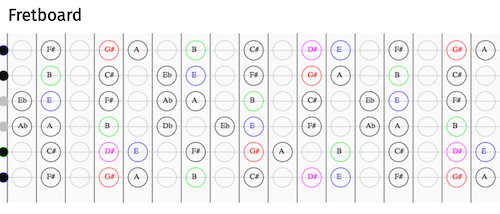
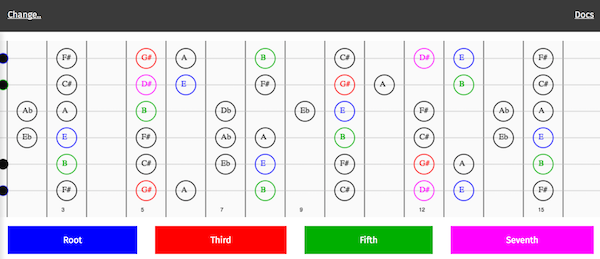
Scale and Key Selectable through Menu

diff --git a/src/js/fretboard.js b/src/js/fretboard.js
@@ -19,6 +19,8 @@ export default class Fretboard {
     this.container = document.getElementById('canvas-container');
     this.canvas = document.getElementById('fretboard');
     this.ctx = this.canvas.getContext('2d');
+    this.scaleSelect = document.getElementById('scaleSelect');
+    this.keySelect = document.getElementById('keySelect');
 
     this.tuning = tuning;
 
@@ -26,8 +28,8 @@ export default class Fretboard {
     this.numFrets = numFrets;
     this.zeroFretOffset = 15;
 
-
     this.updateSize();
+
     // Strings
     this.numStrings = numStrings;
     this.stringPadding = this.height / 10;
@@ -38,13 +40,15 @@ export default class Fretboard {
     this.notes = [this.numNotes];
 
     // Get Scale Notes from tonal
-    this.scale = tonal.scale(scale);
-    this.board = fret.notes(this.tuning, 0, this.numFrets, this.scale);
-    // this.board = fret.notes(this.tuning, 0, this.numFrets);
-    this.rootnote = this.scale[0];
-    this.third = this.scale[2];
-    this.fifth = this.scale[4];
-    this.seven = this.scale[6];
+    this.scales = tonal.scale.names();
+    this.keynotes = ['E', 'F', 'Gb', 'G', 'Ab', 'A', 'Bb', 'B', 'C', 'Db', 'D', 'Eb'];
+    this.currentScaleName = scale;
+    this.currentScale = tonal.scale(scale);
+    this.board = fret.notes(this.tuning, 0, this.numFrets, this.currentScale);
+    this.rootnote = this.currentScale[0];
+    this.third = this.currentScale[2];
+    this.fifth = this.currentScale[4];
+    this.seven = this.currentScale[6];
     this.colors = {
       rootColor: null,
       thirdColor: null,
@@ -53,6 +57,44 @@ export default class Fretboard {
     };
 
     this.getColors();
+    this.init();
+    this.initUi();
+
+  }
+
+  initUi() {
+    this.scales.forEach((scale, i) => {
+      let option = document.createElement('option');
+      option.value = scale;
+      option.innerHTML = scale;
+      this.scaleSelect.appendChild(option);
+    });
+
+    this.keynotes.forEach((key, i) => {
+      let option = document.createElement('option');
+      option.value = key;
+      option.innerHTML = key;
+      this.keySelect.appendChild(option);
+    });
+
+    this.scaleSelect.onchange = (el) => {
+      this.changeScale();
+    };
+    this.keySelect.onchange = (el) => {
+      this.changeScale();
+    };
+  }
+
+  changeScale() {
+    this.ctx.clearRect(0, 0, this.width, this.height);
+    let newScale = `${this.keySelect.value} ${this.scaleSelect.value}`;
+    this.currentScaleName = newScale;
+    this.currentScale = tonal.scale(newScale);
+    this.board = fret.notes(this.tuning, 0, this.numFrets, this.currentScale);
+    this.rootnote = this.currentScale[0];
+    this.third = this.currentScale[2];
+    this.fifth = this.currentScale[4];
+    this.seven = this.currentScale[6];
     this.init();
   }
 
@@ -68,14 +110,13 @@ export default class Fretboard {
   }
 
   getColors() {
-    this.colors.rootColor = window.getComputedStyle(document.getElementById('root')).backgroundColor;
+    this.colors.rootColor  = window.getComputedStyle(document.getElementById('root')).backgroundColor;
     this.colors.thirdColor = window.getComputedStyle(document.getElementById('third')).backgroundColor;
     this.colors.fifthColor = window.getComputedStyle(document.getElementById('fifth')).backgroundColor;
     this.colors.sevenColor = window.getComputedStyle(document.getElementById('seven')).backgroundColor;
   }
 
   updateSize() {
-    console.log("Update Size")
     this.canvas.width = this.container.clientWidth;
     this.canvas.height = this.container.clientHeight;
     this.width = this.canvas.clientWidth;
@@ -175,7 +216,6 @@ export default class Fretboard {
       string.forEach((note, j) => {
         if (i === 0) {
           if (j === 3 || j === 5 ||  j === 7 ||  j === 9 ||  j === 12 ||  j === 15 ||  j === 17) {
-            console.log('Draw Fret Number ');
             this.ctx.fillStyle = '#00000';
             this.ctx.fillText(j, j * this.fretWidth - this.zeroFretOffset - this.width/12.5, this.height - 10);
             this.ctx.fill();

diff --git a/src/js/main.js b/src/js/main.js
@@ -1,40 +1,37 @@
 let styles = require('../styles/main.scss');
 import Fretboard from './fretboard.js';
 
-console.log(styles);
-
-
+/**
+ * Main Entry
+ */
 (() => {
-  console.log('Document Load');
-  console.log(window.getComputedStyle(document.getElementById('root')).backgroundColor)
+  // Initialize Fretboard
+  let fretBoard = new Fretboard({
+    numFrets: 15,
+    numStrings: 6,
+    tuning: 'guitar'
+  });
+
+  let toggle = document.getElementById('toggleControls');
+  let isControlActive = false;
+
+  toggle.addEventListener('click', (e) => {
+    e.preventDefault();
+    console.log('Toggle Click')
+    let controls = document.getElementById('controls');
+
+    if (isControlActive) {
+      controls.classList.remove('active')
+    } else {
+      controls.classList.add('active')
+    }
+    isControlActive = !isControlActive;
+  });
+
+  window.addEventListener('resize', () => {
+    fretBoard.updateSize();
+    fretBoard.init();
+    console.log("Resize");
+  });
 })();
 
-// Initialize Fretboard
-let fretBoard = new Fretboard({
-  numFrets: 15,
-  numStrings: 6,
-  tuning: 'guitar'
-});
-
-
-let toggle = document.getElementById('toggleControls');
-let isControlActive = false;
-
-toggle.addEventListener('click', (e) => {
-  e.preventDefault();
-  console.log('Toggle Click')
-  let controls = document.getElementById('controls');
-
-  if (isControlActive) {
-    controls.classList.remove('active')
-  } else {
-    controls.classList.add('active')
-  }
-  isControlActive = !isControlActive;
-});
-
-window.addEventListener('resize', () => {
-  fretBoard.updateSize();
-  fretBoard.init();
-  console.log("Resize");
-});

diff --git a/index.html b/index.html
@@ -15,11 +15,12 @@
   </header>
 
   <aside id="controls">
-    <ul>
-      <li><a href="#">Scales</a></li>
-      <li><a href="#">Chords</a></li>
-    </ul>
+    <select id="scaleSelect">
+    </select>
+    <select id="keySelect">
+    </select>
   </aside>
+
 
   <main>
     <div id="canvas-container">

diff --git a/src/styles/components/_controls.scss b/src/styles/components/_controls.scss
@@ -3,7 +3,7 @@ $controlWidth: 200px;
 aside#controls {
   box-sizing: border-box;
   position: fixed;
-  padding: 2rem;
+  // padding: 2rem;
   top: 4rem;
   left: 0;
   height: 100%;
